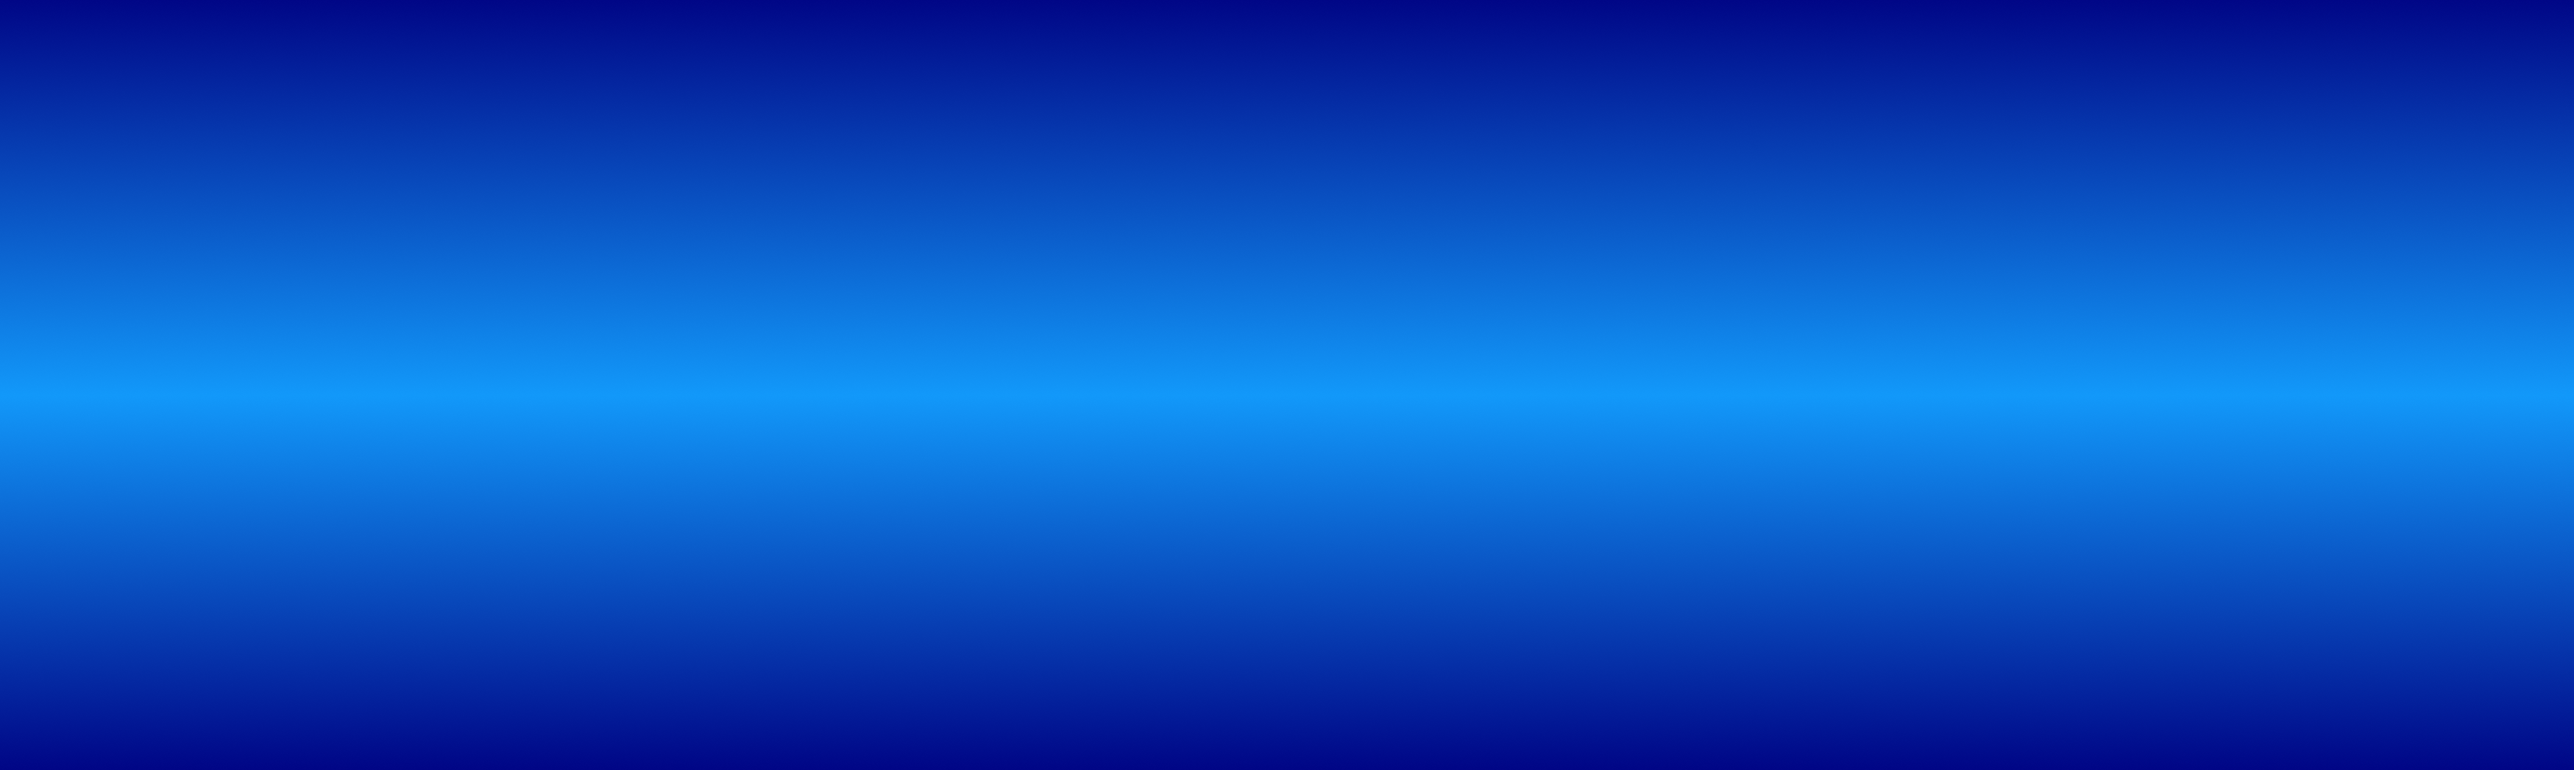
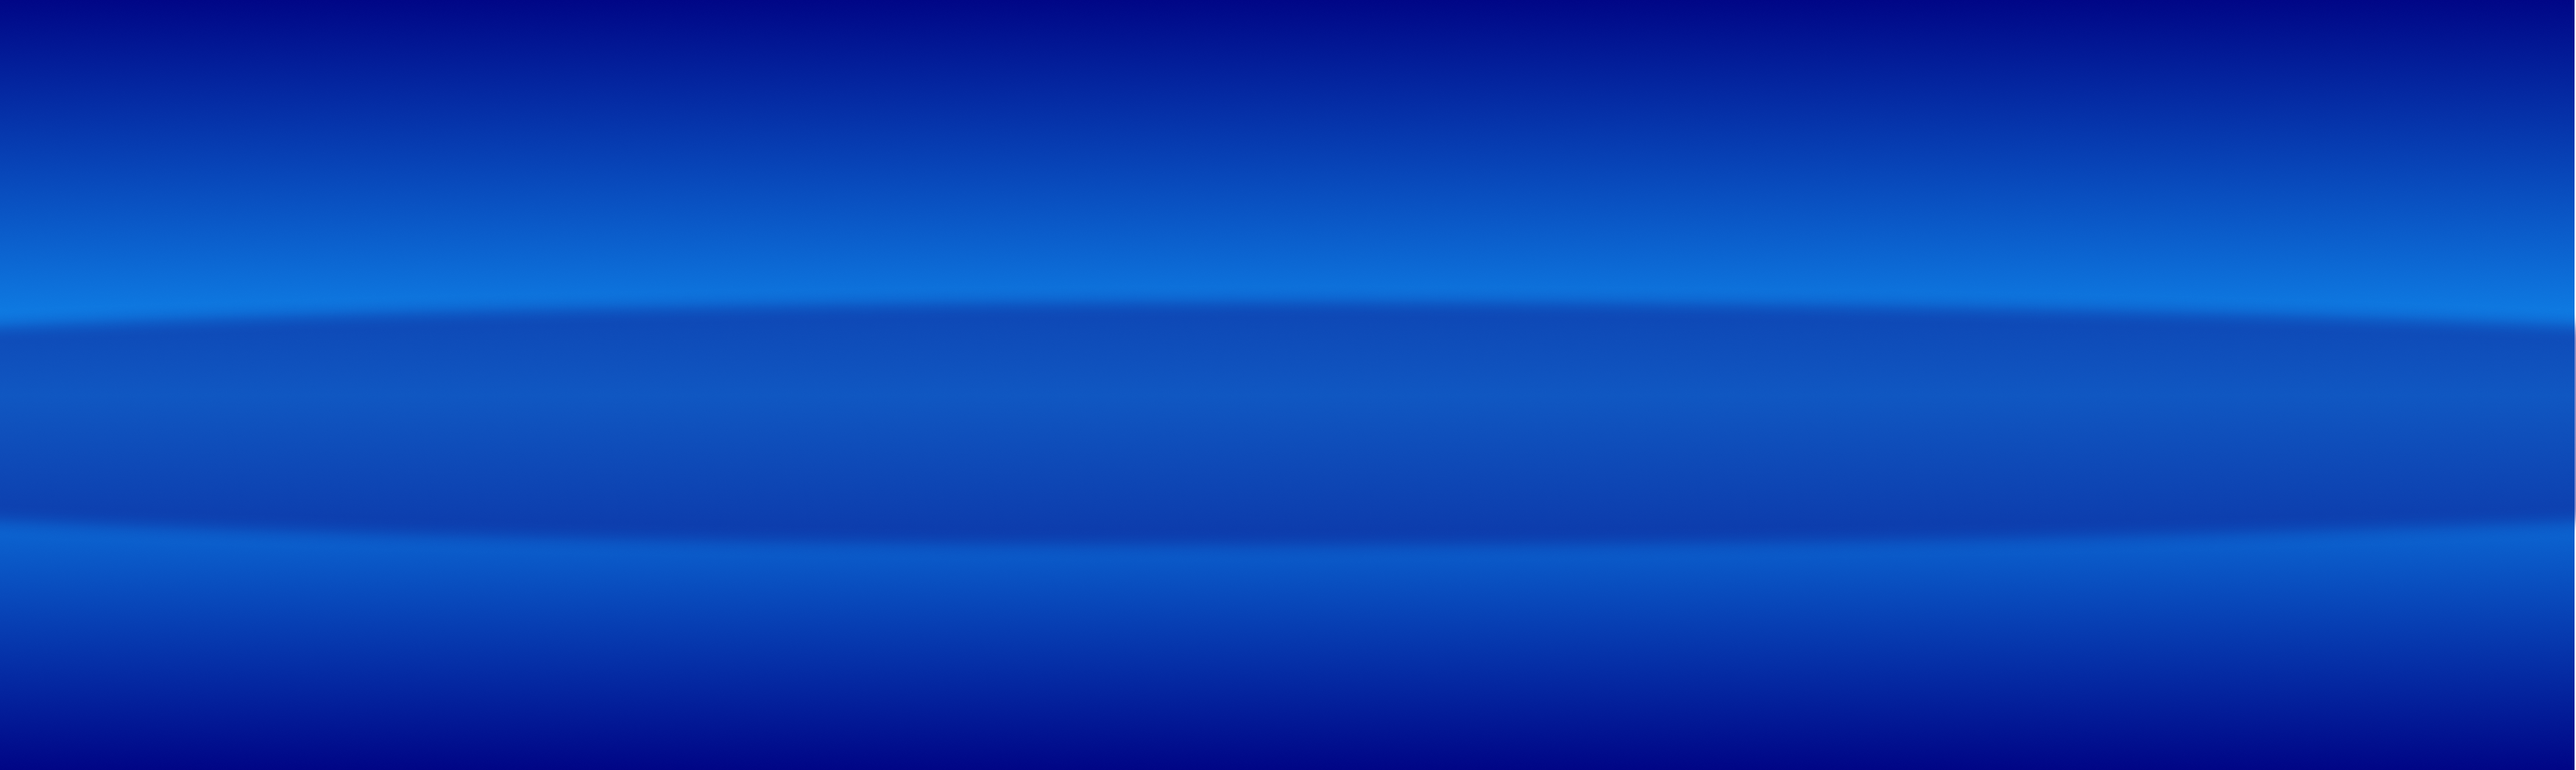
首页微调

Changed region(s): [[0.0, 0.0, 1.0, 1.0]]

diff --git a/src/business-components/Home/h-bg/index.vue b/src/business-components/Home/h-bg/index.vue
@@ -1,10 +1,13 @@
 <template>
 	<div class="widget-part pos-r" :style="`${styles}left:0px;top:0px;z-index:13;`">
-		<div class="h-bg pos-r" :class="{bg54441: status54441}">
+		<div class="h-bg pos-r">
 			<div class="h-bg-back pos-a"></div>
+			<div class="h-bg-5441 pos-a" v-if="status54441"></div>
 			<template v-if="!status54441">
-				<video class="pos-a bg-video" src="/static/videos/bg1.webm" autoplay="autoplay" @ended="end" ref="video" v-show="!video1Ended"></video>
-				<video class="pos-a bg-video" src="/static/videos/bg2.webm" autoplay="autoplay" loop ref="video2" v-show="video1Ended"></video>
+				<video class="pos-a bg-video" src="/static/videos/bg1.webm" autoplay="autoplay" @ended="end" ref="video"
+					   v-show="!video1Ended"></video>
+				<video class="pos-a bg-video" src="/static/videos/bg2.webm" autoplay="autoplay" loop ref="video2"
+					   v-show="video1Ended"></video>
 			</template>
 			<div class="h-bg-top pos-a"></div>
 			<div class="h-bg-control pos-a"></div>
@@ -39,7 +42,7 @@
 				<div class="h-bg-start1 pos-a pointer" @click="handleStart"></div>
 			</div>
 		</div>
-    <video preload src="/static/videos/bg2.webm"></video>
+		<video preload src="/static/videos/bg2.webm"></video>
 	</div>
 </template>
 <script>
@@ -69,7 +72,7 @@
 	export default {
 		data() {
 			return {
-        video1Ended: false,
+				video1Ended: false,
 				status54441: false,
 				statusVideo: false,
 				statusStart: false,
@@ -95,10 +98,10 @@
 			}
 		},
 		methods: {
-		  end () {
-        if (this.video1Ended) return
-        this.video1Ended = true
-      },
+			end() {
+				if (this.video1Ended) return
+				this.video1Ended = true
+			},
 			handleStart() {
 				if (this.config.config.sceneId) {
 					// if (this.statusStart) {
@@ -129,7 +132,7 @@
 				GoldChart.scene.createSceneInstance('grdnn9tiey', 'slideUp')
 			},
 			close54441() {
-        this.video1Ended = false
+				this.video1Ended = false
 				this.status54441 = false
 			},
 			closeVideo(e) {
@@ -287,17 +290,19 @@
 		background-size: 2275px 161px;
 	}
 
+	.h-bg-5441 {
+		background: url("./img/bg-54441.png") no-repeat;
+		background-size: 100% 100%;
+		height: 100%;
+		width: 100%;
+	}
+
 	.h-bg {
 		height: 100%;
 		background-size: 3500px 1050px;
 		background-repeat: no-repeat;
 		overflow: hidden;
 		top: 0;
-
-    &.bg54441 {
-      background: url("./img/bg-54441.png") no-repeat;
-      background-size: 100% 100%;
-    }
 
 		.bg-video {
 			height: 100%;

diff --git a/src/business-components/Home/h-pie/index.vue b/src/business-components/Home/h-pie/index.vue
@@ -1,11 +1,11 @@
 <template>
 	<div class="widget-part" :style="styles" v-if="data">
-    <pie
-        class="pie"
-        :data="data"
-        :text="config.config.title1"
-        :subtext="config.config.title2"
-    ></pie>
+		<pie
+			class="pie"
+			:data="data"
+			:text="config.config.title1"
+			:subtext="config.config.title2"
+		></pie>
 	</div>
 </template>
 <script>
@@ -17,15 +17,15 @@
 		config: {
 			fields: {
 				unit: getInput('unit', '单位'),
-        title1: getInput('title1', '标题1'),
-        title2: getInput('title2', '标题2'),
+				title1: getInput('title1', '标题1'),
+				title2: getInput('title2', '标题2'),
 			}
 		}
 	}
 	const config = {
 		animation: true,
 		config: {
-      unit: true,
+			unit: true,
 			title1: true,
 			title2: true,
 		}
@@ -33,24 +33,24 @@
 	const value = {
 		api: {
 			data: JSON.stringify([
-        {
-          name: '城区1',
-          value: 72
-        },
-        {
-          name: '城区2',
-          value: 32
-        },
-        {
-          name: '城区3',
-          value: 12
-        },
-      ])
+				{
+					name: '城区1',
+					value: 72
+				},
+				{
+					name: '城区2',
+					value: 32
+				},
+				{
+					name: '城区3',
+					value: 12
+				},
+			])
 		},
 		config: {
-      unit: '万m³',
-      title1: '区域',
-      title2: '销售气量'
+			unit: '万m³',
+			title1: '区域',
+			title2: '销售气量'
 		}
 	}
 	export default {
@@ -65,7 +65,7 @@
 <style lang="scss" scoped>
 	.pie {
 		width: 100%;
-    height: 100%;
+		height: 100%;
 	}
 </style>
 

diff --git a/src/business-components/Home/h-left/pie.vue b/src/business-components/Home/h-left/pie.vue
@@ -9,14 +9,22 @@
 
 	export default {
 		props: {
-		  data: {
-		    type: Array
-      },
-      unit: {
-		    type: String,
-        default: '万m³'
-      }
-    },
+			data: {
+				type: Array
+			},
+			text: {
+				type: String,
+				default: '区域'
+			},
+			subtext: {
+				type: String,
+				default: '销售气量'
+			},
+			unit: {
+				type: String,
+				default: '万m³'
+			}
+		},
 		watch: {
 			data: {
 				handler(val) {
@@ -33,8 +41,8 @@
 				const total = this.data.reduce((p, n) => p + n.value, 0)
 				return {
 					title: {
-						text: '区域',
-						subtext: '销售气量',
+						text: this.text,
+						subtext: this.subtext,
 						left: 'center',
 						top: '35%',
 						textStyle: {
@@ -64,7 +72,7 @@
 							padding: [0, -100],
 							rich: {
 								normal: {
-									fontSize: 14,
+									fontSize: 15,
 									lineHeight: 14,
 									color: '#fff',
 									padding: [6, 0, 0, 0],
@@ -72,7 +80,7 @@
 								},
 								value: {
 									align: 'left',
-									fontSize: 14,
+									fontSize: 15,
 									lineHeight: 14,
 									color: '#fff',
 									padding: [-8, 0, 0, 0],

diff --git a/src/business-components/mixins.js b/src/business-components/mixins.js
@@ -39,7 +39,9 @@ export default {
 		/**
 		 * @description 外部更新组件
 		 */
-		updateComponentFormOutSide({data, url, path, method}) {
+		updateComponentFormOutSide({data, url, path, method, params}) {
+			if (params)
+				this.config.api.params = JSON.stringify(params)
 			if (data)
 				this.config.api.data = JSON.stringify(data)
 			if (url)
@@ -47,7 +49,7 @@ export default {
 			if (path)
 				this.config.api.path = path
 			if (method)
-				this.config.api.path = method
+				this.config.api.method = method
 		},
 		/**
 		 * @description 组件间联动后的 ajax 数据重新请求
